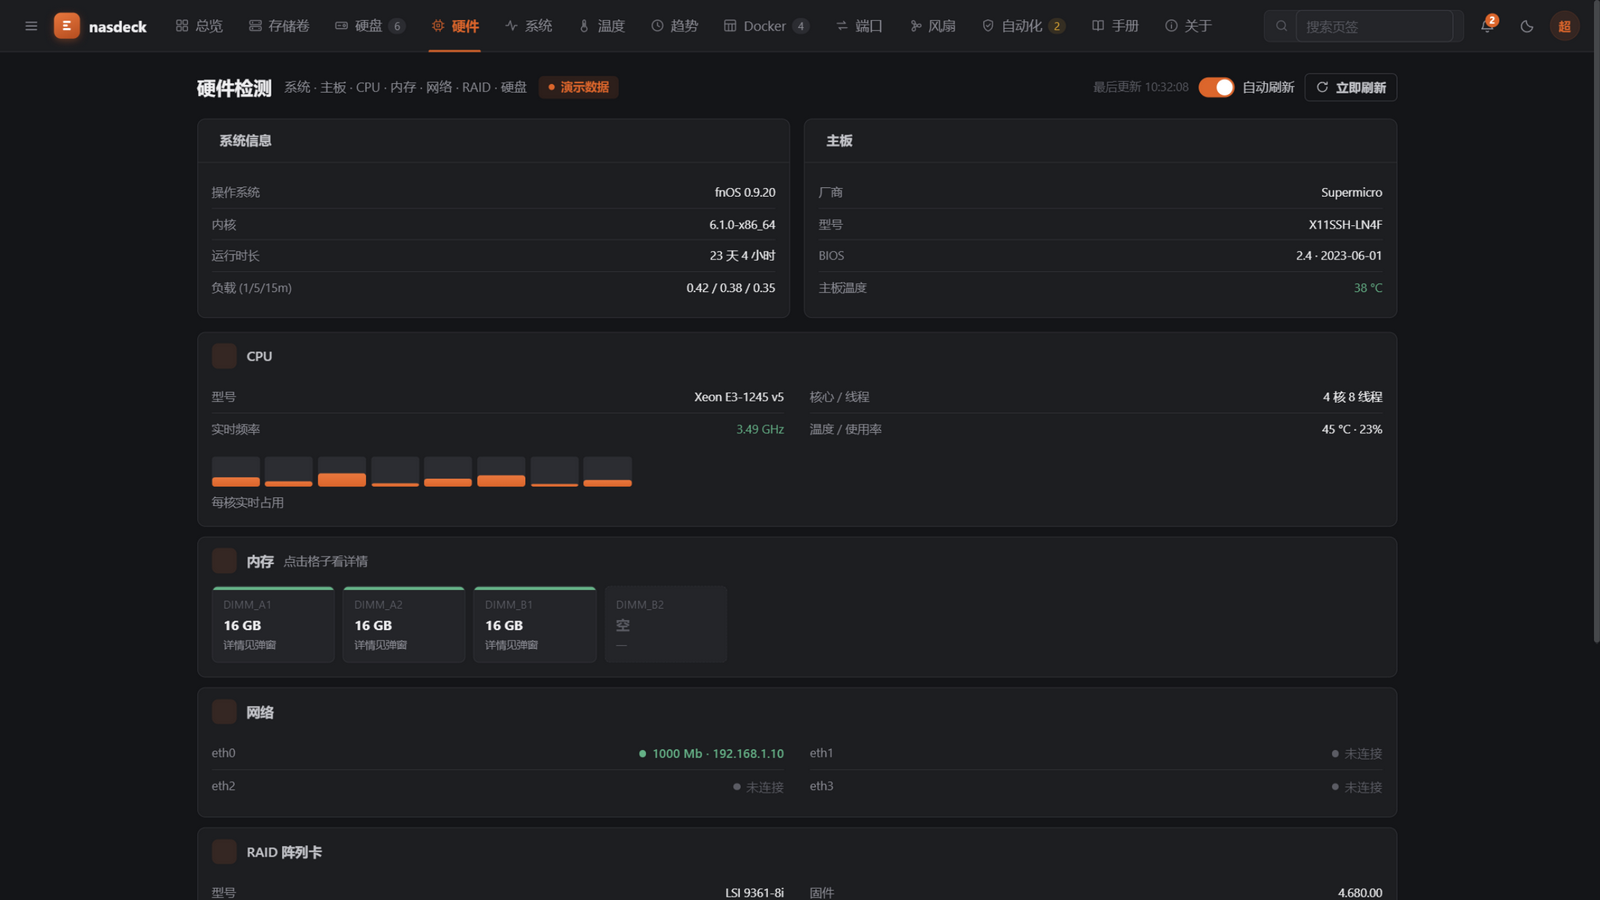
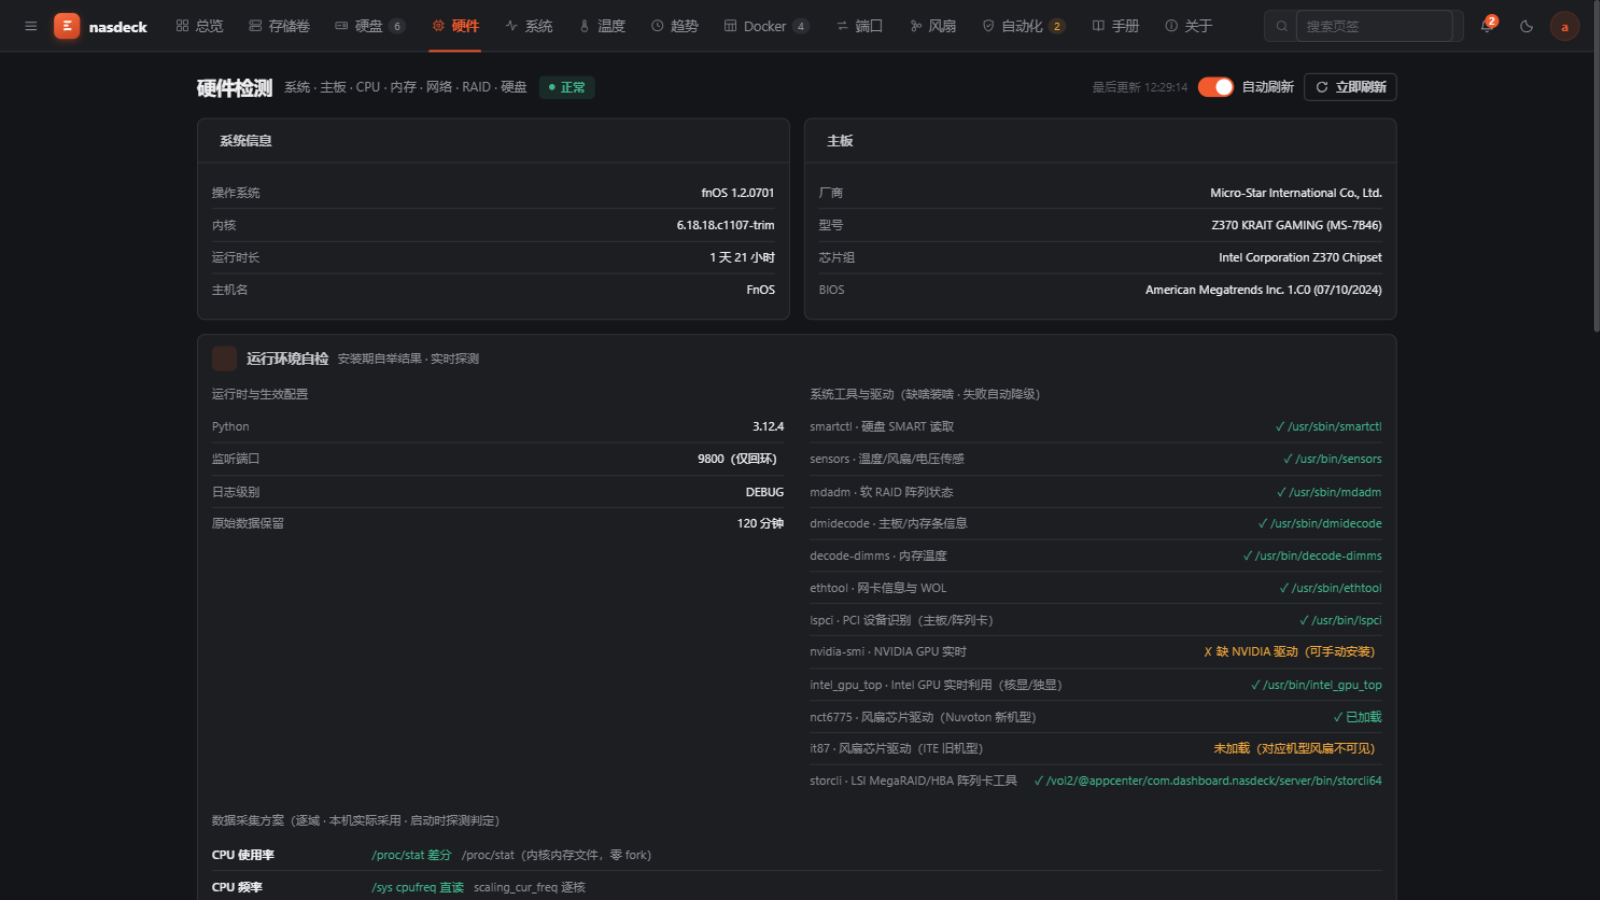
docs: README/使用手册刷新至真机状态——截图换 fnOS 1.2.0701 实拍，功能描述同步（自检/权限分级/采集方案等）

diff --git a/README.md b/README.md
@@ -1,6 +1,6 @@
 # nasdeck
 
-**dev-0.0.6**（开发版） · 飞牛OS（fnOS）NAS 硬件监控面板
+**dev-0.0.22**（开发版） · 飞牛OS（fnOS）NAS 硬件监控面板
 
 [下载 fpk](https://github.com/LarryMKott/nasdeck/releases/latest) · [操作手册](docs/使用手册.md) · [前后端接口约定](docs/前后端数据接口约定.md) · [FPK 打包说明](fpk/README.md) · [飞牛社区讨论帖](https://club.fnnas.com/forum.php?mod=viewthread&tid=67060)
 
@@ -30,14 +30,14 @@
 </tr>
 </table>
 
-> 截图为应用内置「演示数据」模式下的深色主题运行效果；「控制与自动化」「操作手册」「关于」等页面见 [操作手册](docs/使用手册.md)。
+> 截图为 fnOS 1.2.0701 真机（i3-9100T · UHD Graphics 630 核显）深色主题实拍；「控制与自动化」「操作手册」「关于」等页面见 [操作手册](docs/使用手册.md)。
 
 ## 功能
 
 UNRAID 风格顶栏共 13 个视图（11 个功能页 + 操作手册 + 关于），覆盖 NAS 硬件运维核心场景：
 
 - **总览**：单页仪表盘——CPU / 内存 / 网络吞吐 / 磁盘 IO / 阵列 / GPU / 整机功耗 / 风扇 / Docker 一屏尽览，秒级自动刷新
-- **硬件检测**：系统信息、主板（DMI 直读品牌/BIOS/芯片组）、CPU（逐核占用）、内存（SPD 直读品牌，颗粒厂与模组厂区分）、网卡（IP/MAC/协商速率/驱动）、阵列卡自动识别 MegaRAID / HBA 直通 / 纯 SATA 三种形态
+- **硬件检测**：系统信息、主板（DMI 直读品牌/BIOS/芯片组）、CPU（逐核占用）、内存（SPD 直读品牌，颗粒厂与模组厂区分）、网卡（IP/MAC/协商速率/驱动）、阵列卡自动识别 MegaRAID / HBA 直通 / 纯 SATA 三种形态，附**运行环境自检**（安装期工具/驱动自举结果实时呈现，缺失项带安装提示）
 - **系统资源**：CPU / 内存 / 网络 / 磁盘 IO 60 秒滚动折线，RAPL 实时功耗（Intel），GPU 占用与频率
 - **温度监控**：关键传感器速览 + 全机温度墙，按阈值分档着色，5 秒就地更新
 - **历史趋势**：六维度历史回看（24h / 7d / 30d，自动降采样保留 30 天），一键导出 Markdown / HTML / CSV 健康报告
@@ -47,6 +47,7 @@ UNRAID 风格顶栏共 13 个视图（11 个功能页 + 操作手册 + 关于）
 - **Docker**：容器状态、内存 / CPU 占用、网络速率、端口映射、运行时长
 - **端口占用**：列出全部监听端口并自动识别占用者（飞牛应用 / 容器 / 系统服务），可达范围三级徽章，一键释放（保护系统关键进程）
 - **控制与自动化**：温度 / SMART 告警规则，Telegram / Bark / 邮件通知渠道，一键健康报告导出
+- **权限分级**：桌面入口所有用户可见，普通用户只读（界面自动隐藏设置类按钮），风扇调速 / 进程终止等写操作仅管理员（后端按飞牛身份头强制校验）
 
 ## 架构
 
@@ -69,8 +70,8 @@ UNRAID 风格顶栏共 13 个视图（11 个功能页 + 操作手册 + 关于）
 ## 安装（fnOS 真机）
 
 1. 下载 `.fpk`（Releases 或手动安装）
-2. 飞牛 **应用中心 → 手动安装**，按向导确认——系统工具（smartmontools / lm-sensors / mdadm / dmidecode / i2c-tools / ethtool）自动安装，Python 运行环境与全部依赖离线内置，无需联网编译
-3. 桌面出现「NAS硬件监控」图标，点击打开（需先登录飞牛）
+2. 飞牛 **应用中心 → 手动安装**，按向导确认——系统工具（smartmontools / lm-sensors / mdadm / dmidecode / i2c-tools / ethtool，Intel 显卡机型另装 intel-gpu-tools）自动安装，Python 运行环境与全部依赖离线内置，无需联网编译；监听端口默认 9800，冲突时可在向导中修改
+3. 桌面出现「NAS硬件监控」图标（所有用户可见），点击打开（需登录飞牛；普通用户只读，写操作仅管理员）
 
 > 风扇调速需要主板传感器驱动：NCT 系列系统一般自带（`modprobe nct6775`），ITE 系列装应用中心的 `ite-it87`；nasdeck 每次启动也会自动尝试加载。详见[操作手册](docs/使用手册.md)。
 
@@ -83,7 +84,7 @@ cd backend && .venv/Scripts/python.exe -m uvicorn main:app --port 8766
 # 前端（127.0.0.1:5173，代理已指向 8766；内置演示数据模式，后端不在也能跑）
 cd frontend && pnpm dev
 
-# 测试（40 项）
+# 测试（73 项）
 cd backend && .venv/Scripts/python.exe -m pytest -q
 
 # 打 FPK 包（产物 build/fpk/nasdeck-fnpack-<版本>.fpk）
@@ -108,7 +109,9 @@ backend/.venv/Scripts/python.exe scripts/build_fpk.py
 | `NASDECK_DB_URL` | backend/data/nasdeck.db | SQLite（FPK 形态落 @appdata） |
 | `NASDECK_STORCLI_PATH` | 自动探测 | storcli 可执行文件路径 |
 | `NASDECK_STATIC_DIR` | 空 | 前端 dist 目录（设置后由后端托管 SPA） |
-| `NASDECK_LOG_LEVEL` | INFO | 日志级别 |
+| `NASDECK_LOG_LEVEL` | INFO | 日志级别（FPK 形态由配置向导落盘 runtime.env） |
+| `NASDECK_RAW_KEEP_MINUTES` | 120 | 原始高频数据保留分钟数（影响数据库体积） |
+| `NASDECK_TRIM_AUTH` | 关 | 飞牛形态分级鉴权：读=登录用户、写=管理员（FPK 形态由 cmd/main 强制开启） |
 
 ## 约束与已知限制
 

diff --git a/docs/使用手册.md b/docs/使用手册.md
@@ -2,7 +2,19 @@
 
 本手册讲清楚 nasdeck 这面板**怎么用、每个开关干什么、遇到问题怎么查**。不用懂 Linux 命令，照着点就行。
 
-> 本手册**仅对应当前代码版本 v2.3.3**。以后 nasdeck 升级出新版本，本手册会同步更新到对应版本号，老版本用户请回 GitHub Releases 找对应 tag 的手册查看。功能以你实际界面为准，个别主板/风扇命名可能不同，属正常现象。
+> 本手册对应 **fnOS 版 dev-0.0.22**（FastAPI + Vue3 全新架构，沿袭 2.x 的 UNRAID 风格界面与用法）。下文 v2.3.x 及更早的「版本修复」表为历史记录保留；功能以你实际界面为准，个别主板/风扇命名可能不同，属正常现象。
+
+**fnOS 版（dev-0.0.x）重要变化**
+
+| 变化 | 在哪看 | 说明 |
+|---|---|---|
+| 移除应用内登录壳，打开直进面板 | 全局 | 面板鉴权由飞牛登录态承担，不再有内置登录页 |
+| 桌面入口对所有用户可见 | 飞牛桌面 | 普通用户可查看全部监控数据（界面自动隐藏设置类按钮）；风扇调速、进程终止等写操作仅管理员可用 |
+| GPU 监控支持核显 | 总览 · GPU 磁贴与 GPU 监控卡 | Intel 核显/独显实时利用率与温度（intel_gpu_top，装 Intel 卡的机器装机时自动装 intel-gpu-tools）；AMD / NVIDIA 同样支持 |
+| 安装向导自定义端口 + 配置向导 | 安装向导 / 应用「配置」 | 监听端口默认 9800，冲突时安装可改；装后在应用「配置」随时调整端口、日志级别、原始数据保留时长，保存自动重启 |
+| 运行环境自检 | 硬件检测页 | 实时呈现安装期自举结果：系统工具缺哪个、风扇驱动加载没、当前生效配置，缺失项带安装提示 |
+| 磁盘自检结果真实判定 | 硬盘 SMART | 自检到点后查询 smartctl 日志判定完成 / 中止 / 报错，不再到时间就显示成功 |
+| 健康报告导出地址修复 | 控制与自动化 | FPK 形态下报告 / 历史导出经 cgi 反代前缀，不再 404 |
 
 **本版本修复了什么（v2.3.3 新增）**
 
@@ -184,8 +196,8 @@ nasdeck 是飞牛OS（fnOS）上的一个**硬件监控面板**，把原本要 S
 ## 二、怎么打开
 
 1. 在飞牛OS **应用中心**装好 nasdeck（手动安装 `nasdeck.fpk`）。
-2. 桌面会出现「NAS硬件监控」图标，点开即进入。
-3. 面板嵌在飞牛桌面里（应用中心打开即进入），**要先登录飞牛账号**才能看。
+2. 桌面会出现「NAS硬件监控」图标（所有用户可见），点开即进入。
+3. 面板嵌在飞牛桌面里，**要先登录飞牛账号**才能看；普通用户进面板是只读视图（设置类按钮自动隐藏），风扇调速等写操作仅管理员可用。
 4. 外部访问请走飞牛自带的远程访问 / 反代，**不要直接把 9800 端口暴露到公网**。
 
 > 小提示：面板每 30 秒左右自动刷新（系统资源页有「自动刷新」开关）。
@@ -194,9 +206,13 @@ nasdeck 是飞牛OS（fnOS）上的一个**硬件监控面板**，把原本要 S
 
 ## 三、各模块逐一讲解
 
-左侧边栏共十个功能模块（硬件配置检测 / 系统资源 / 温度监控 / 历史趋势 / 硬盘 SMART / 存储卷 / 风扇控制 / Docker / 端口占用 / 控制与自动化），外加「操作手册」和「关于 nasdeck」两个常驻入口，下面挨个说。
+左侧边栏共十一个功能模块（总览 / 硬件检测 / 系统资源 / 温度监控 / 历史趋势 / 硬盘 SMART / 存储卷 / 风扇控制 / Docker / 端口占用 / 控制与自动化），外加「操作手册」和「关于 nasdeck」两个常驻入口，下面挨个说。
 
-### 1. 硬件配置检测（首页仪表盘）
+### 0. 总览（打开即看的仪表盘）
+
+单页汇总：CPU / 内存 / 网络吞吐 / 磁盘 IO / 阵列 / GPU（核显利用率与温度）/ 整机功耗 / 系统状态（负载、进程数、运行时长），秒级自动刷新。下面各页是分领域细节，日常看这一页就够。
+
+### 1. 硬件检测
 
 进面板第一眼就是它，单页总览，按硬件分卡片平铺：
 
